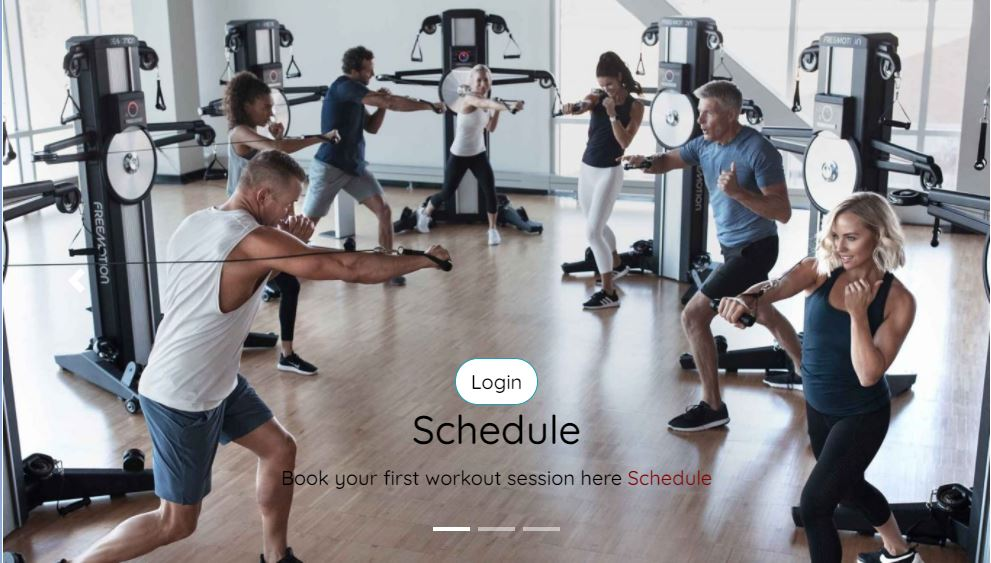
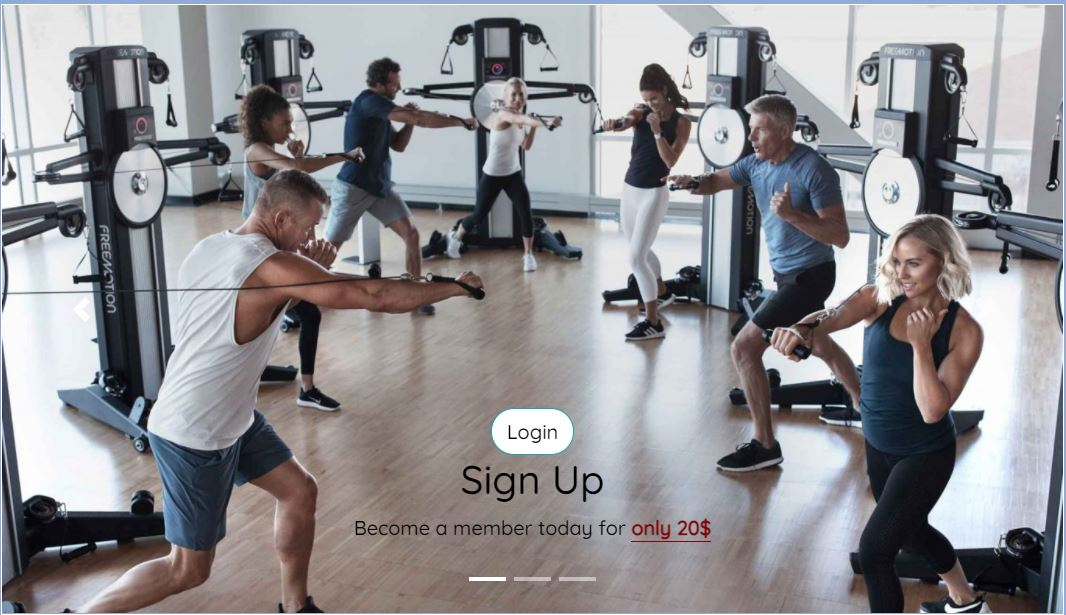
Add testing for another user goal and add new image, also replace old image1 carousel with new image1 carousel

diff --git a/index.html b/index.html
@@ -138,7 +138,7 @@
 		<!-- Text column -->
 		<div class=".group-training-column" id="group-training-column-text">
 			<h3>Group Training</h3>
-			<p>We have various group training sessions suited for your needs. Whether you want to focus on your Kickboxing, Spinning or Yoga you can find it here.
+			<p>We have various group training sessions suited for your needs. Whether you want to focus on Kickboxing, Spinning or Yoga you can find it here.
 				<br>Our instructors are well educated in their area of expertise. </p>
 		</div>
 		<!-- Image column -->

diff --git a/README.md b/README.md
@@ -187,7 +187,9 @@ As soon as you land on the site there is an easily readible and clean navigation
 <img src="docs/features/f_nav_bar.jpg">
 <img src="docs/features/resp_nav_bar.jpg">
 
-
+* *As a user I want to find out what the membership costs.* <br>
+When you land on the site you will see the big carousel with 3 images rotating. When you scroll down you will read the text of the first image which presents the cost for the membership. The cost is also present on the contact page. <br>
+<img src="docs/features/cost_carousel.jpg">
 
 ### Validator testing
 
